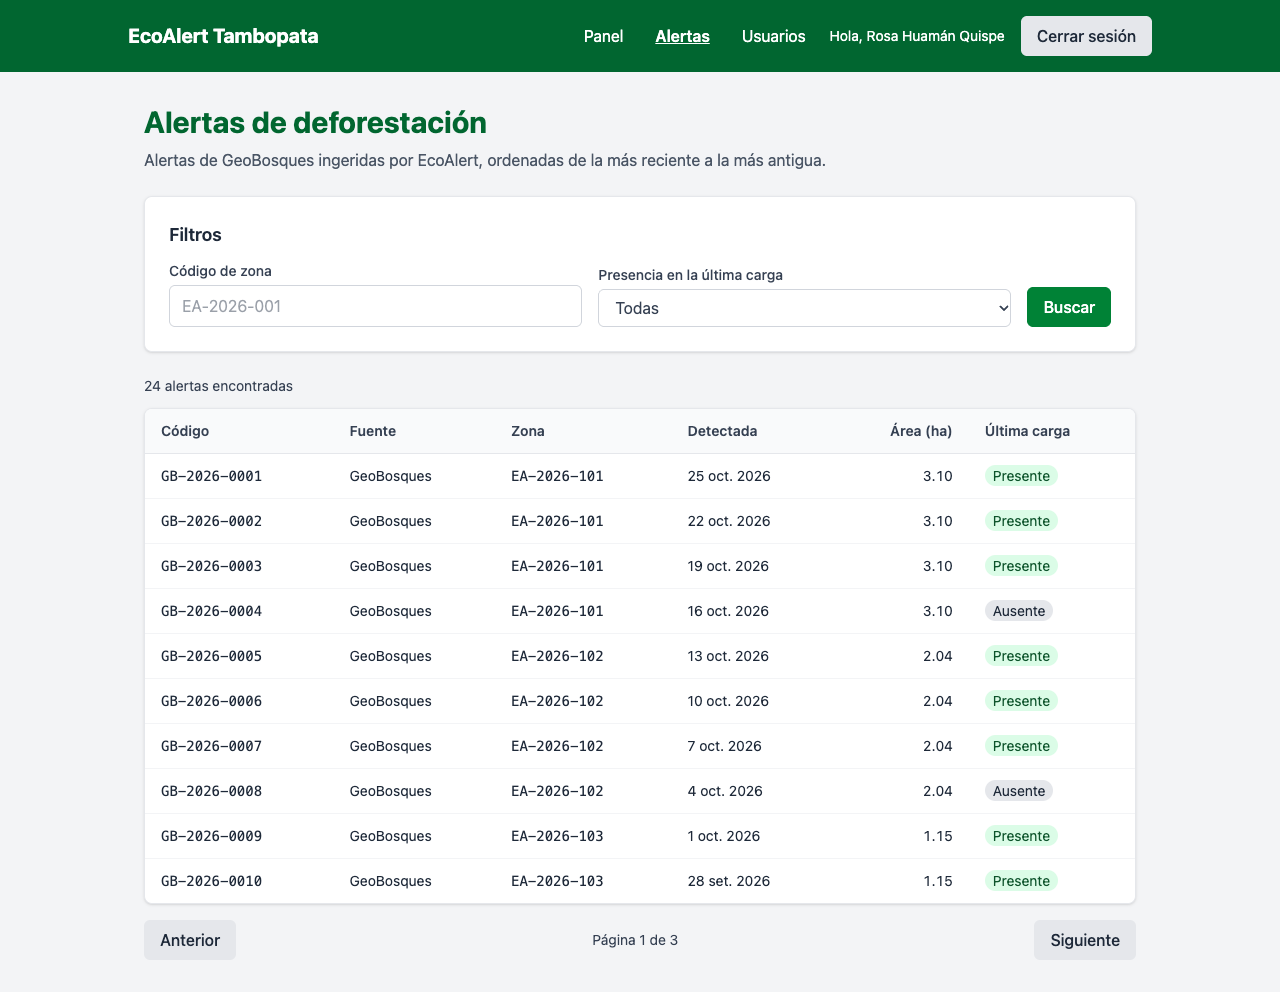
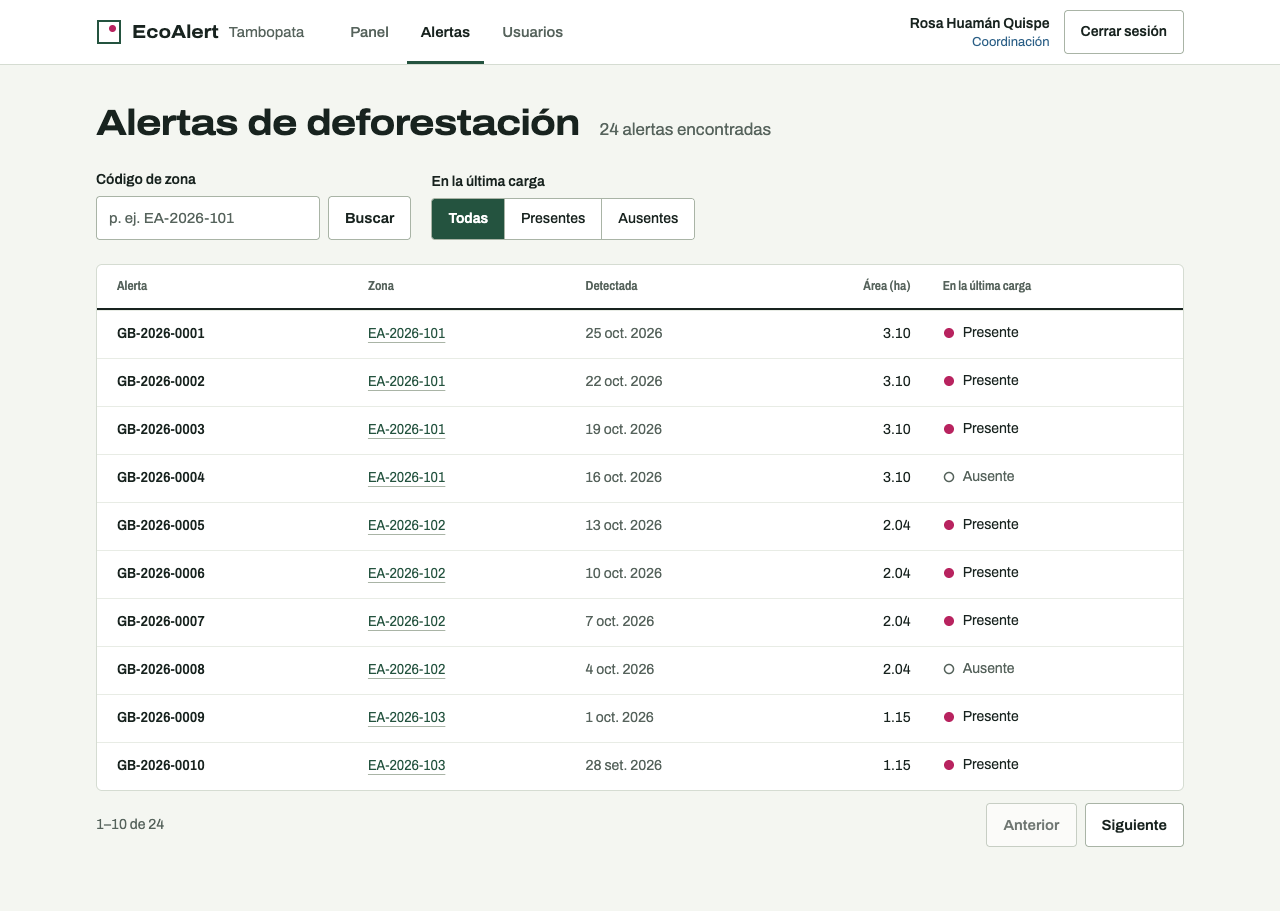
docs(S11_A1): refresh captures, evidence and demo script for the redesign
- Captures 01-07 regenerated by evidencias/flujo_e2e.cjs on a clean database.
- E2E selectors updated (Panel heading, Nueva cuenta, Desactivar cuenta de ...);
  13/13 steps pass locally with no unexpected console errors.
- Vitest evidence 45/45; README stack table lists the Archivo font.

diff --git a/S11_A1/guion_demo.md b/S11_A1/guion_demo.md
@@ -26,11 +26,11 @@ campo enmascarado y no leerla en voz alta).
 |---|---|---|---|---|
 | 0:00–0:30 | **Problema y contexto** | A | Pantalla de login de EcoAlert | "En la Reserva Nacional Tambopata, los analistas SIG reciben cada semana cientos de alertas oficiales de pérdida de bosque y tienen que decidir, cruzando varias herramientas, qué zona revisar primero. EcoAlert Tambopata es la aplicación web que les da ese punto de partida común: hoy, acceso seguro por roles, la administración de cuentas y la consulta de alertas por zona. La prioridad automática todavía no está construida, y lo diremos al final." |
 | 0:30–0:55 | Demo · protección de rutas y error de login | B | Escribir `/dashboard` en la barra → redirige al login. Ingresar `coordinacion@ecoalert.pe` con una contraseña incorrecta. | "Sin sesión, cualquier pantalla redirige al login. Con una contraseña incorrecta, el servidor responde 401 con un mensaje genérico que no revela si el correo existe." |
-| 0:55–1:20 | Demo · login y alertas | B | Login correcto → Panel → **Alertas**; filtrar zona `EA-2026-101`; mostrar la columna *Última carga* | "Ya con sesión, la coordinadora ve las 24 alertas de GeoBosques de seis zonas, guardadas en PostGIS. Puede filtrarlas por zona y ver cuáles no vinieron en la última carga." |
-| 1:20–2:10 | Demo · CRUD: crear y leer | C | **Usuarios** → formulario *Nueva cuenta*: `Luis Condori Mamani`, `luis.condori.<n>@ecoalert.pe`, Analista SIG, contraseña temporal. Primero una de 5 caracteres (error de validación), luego una válida. | "El recurso principal que administra Coordinación son las cuentas. Creo un analista para la brigada del río Malinowski. Si la contraseña temporal tiene menos de 12 caracteres, la interfaz lo rechaza antes de llamar al servidor. Con una válida, la cuenta aparece en la lista, marcada con 'contraseña temporal'." |
+| 0:55–1:20 | Demo · login y alertas | B | Login correcto → **Panel** (cifras y zonas por superficie) → pulsar `EA-2026-101` → sus alertas; mostrar la columna *En la última carga* | "Ya con sesión, la coordinadora ve las 24 alertas de GeoBosques de seis zonas, guardadas en PostGIS. Puede filtrarlas por zona y ver cuáles no vinieron en la última carga." |
+| 1:20–2:10 | Demo · CRUD: crear y leer | C | **Usuarios** → botón *Nueva cuenta* → formulario: `Luis Condori Mamani`, `luis.condori.<n>@ecoalert.pe`, Analista SIG, contraseña temporal. Primero una de 5 caracteres (error de validación), luego una válida. | "El recurso principal que administra Coordinación son las cuentas. Creo un analista para la brigada del río Malinowski. Si la contraseña temporal tiene menos de 12 caracteres, la interfaz lo rechaza antes de llamar al servidor. Con una válida, la cuenta aparece en la lista, marcada con 'contraseña temporal'." |
 | 2:10–2:35 | Demo · CRUD: actualizar | C | *Editar* la cuenta nueva → nombre `Luis Condori Mamani (Brigada Malinowski)` → *Guardar* | "Editar envía un PATCH solo con los campos que cambiaron." |
-| 2:35–3:00 | Demo · **caso de error manejado** | C | *Desactivar* la propia cuenta de Coordinación → *Confirmar* → aparece "No se puede desactivar la última cuenta de coordinación" | "Si intento desactivar la única cuenta de Coordinación, el servidor lo impide con un 409 y la interfaz muestra el motivo: el sistema se quedaría sin nadie que administre las cuentas." |
-| 3:00–3:30 | Demo · CRUD: baja lógica | C | *Desactivar* la cuenta de Luis → *Confirmar* → estado "Desactivada" | "No hay botón de eliminar: las cuentas se desactivan, porque el historial de cada zona debe conservar quién hizo cada revisión. Al desactivarla, sus sesiones abiertas se cierran al instante." |
+| 2:35–3:00 | Demo · **caso de error manejado** | C | *Desactivar* la propia cuenta de Coordinación → *Desactivar cuenta* → aparece "No se puede desactivar la última cuenta de coordinación" | "Si intento desactivar la única cuenta de Coordinación, el servidor lo impide con un 409 y la interfaz muestra el motivo: el sistema se quedaría sin nadie que administre las cuentas." |
+| 3:00–3:30 | Demo · CRUD: baja lógica | C | *Desactivar* la cuenta de Luis → *Desactivar cuenta* → estado "Desactivada" | "No hay botón de eliminar: las cuentas se desactivan, porque el historial de cada zona debe conservar quién hizo cada revisión. Al desactivarla, sus sesiones abiertas se cierran al instante." |
 | 3:30–4:00 | **Decisión técnica clave** | D | `backend/app/dependencies.py` (función `autenticar`) o el diagrama del README | "Nuestra decisión clave fue no usar un JWT puramente sin estado. Cada token tiene un identificador de sesión guardado en PostgreSQL, y en cada petición comprobamos que esa sesión siga abierta, que no lleve más de 30 minutos inactiva y que la cuenta siga activa. Por eso cerrar sesión o desactivar una cuenta invalida el token en el momento, que es lo que exigen los criterios RF-01-AC-6 y RF-02-AC-5." |
 | 4:00–4:20 | **Uso del agente de IA** | A | Tabla A.4 de `retrospectiva_proyecto.md` | "El agente fue más útil generando el contrato OpenAPI y más de doscientas pruebas automatizadas. Pero también escribió pruebas que pasaban sin verificar nada, y solo lo descubrimos rompiendo el código a propósito: revisar lo generado nos costó más que generarlo." |
 | 4:20–4:45 | **Qué haríamos diferente** | B | Matriz de trazabilidad, §2 Resumen | "La limitación real es que el núcleo del producto, agrupar alertas en zonas y calcular su prioridad, no está construido: pusimos primero la seguridad y la administración. Con más tiempo haríamos primero un flujo vertical simple de ingesta, zonas, prioridad y lista, aunque fuera rudimentario, y después lo reforzaríamos." |

diff --git a/README.md b/README.md
@@ -53,7 +53,7 @@ demostración (`backend/scripts/sembrar_demo.py`). El detalle por requerimiento 
 
 | | |
 |---|---|
-| ![Inicio de sesión](S11_A1/capturas/01-login.png) **Inicio de sesión** — toda ruta protegida sin sesión redirige aquí. | ![Panel de Coordinación](S11_A1/capturas/02-panel-coordinacion.png) **Panel** — datos de la sesión y accesos según el rol. |
+| ![Inicio de sesión](S11_A1/capturas/01-login.png) **Inicio de sesión** — toda ruta protegida sin sesión redirige aquí. | ![Panel de Coordinación](S11_A1/capturas/02-panel-coordinacion.png) **Panel** — cifras y zonas ordenadas por superficie alertada, calculadas con las alertas cargadas. |
 | ![Alertas](S11_A1/capturas/03-alertas.png) **Alertas** — 24 alertas de GeoBosques desde PostGIS, con filtros y paginación. | ![Usuarios](S11_A1/capturas/04-usuarios-creado.png) **Gestión de usuarios** — alta de una cuenta de Analista SIG. |
 | ![Error 409](S11_A1/capturas/05-error-ultima-coordinacion.png) **Error manejado** — el servidor impide desactivar la última cuenta de Coordinación (409). | ![Cambio de contraseña](S11_A1/capturas/06-cambiar-password.png) **Primer ingreso** — la cuenta nueva debe reemplazar su contraseña temporal. |
 
@@ -137,7 +137,8 @@ Versiones instaladas y verificadas el 24/11/2026 (`requirements*.txt` y `package
 | Frontend | React / React DOM | 19.3.1 | Interfaz como SPA de componentes |
 | | React Router | 7.18.4 | Rutas públicas y protegidas |
 | | Vite | 6.4.5 | Servidor de desarrollo, proxy de `/api` y build de producción |
-| | Tailwind CSS | 4.3.4 | Estilos utilitarios y diseño responsivo |
+| | Tailwind CSS | 4.3.4 | Estilos utilitarios y diseño responsivo; los colores del sistema visual son tokens `@theme` en `frontend/src/index.css` |
+| | Archivo (`@fontsource-variable/archivo`) | 5.3.0 | Tipografía servida desde el propio build, con eje de ancho (expandida en títulos, condensada en tablas) |
 | Pruebas | pytest + httpx | 8.4.2 + 0.28.1 | Pruebas de backend contra PostgreSQL real |
 | | Vitest + Testing Library + jsdom | 5.0.5 + 16.3.3 + 30.1.3 | Pruebas de servicios, rutas y páginas del frontend |
 | | Playwright | 1.60.0 | Prueba E2E del flujo de la demo (fuera del `package.json`) |
@@ -215,7 +216,7 @@ documentación interactiva queda en <http://127.0.0.1:8000/docs>.
 | Suite | Comando | Resultado verificado (24/11/2026) | Evidencia |
 |---|---|---|---|
 | Backend: CRUD, lecturas, contrato, integridad SQL e integración (`backend/tests/`) y seguridad JWT (`S05_S06_A2/pruebas/`) | `cd backend && .venv/bin/python -m pytest` | **234 de 234** (110 + 124) | [`pytest_backend.txt`](S11_A1/evidencias/pytest_backend.txt) |
-| Frontend: servicios, rutas protegidas y páginas | `npm --prefix frontend test` | **39 de 39** | [`vitest_frontend.txt`](S11_A1/evidencias/vitest_frontend.txt) |
+| Frontend: servicios, rutas protegidas y páginas | `npm --prefix frontend test` | **45 de 45** | [`vitest_frontend.txt`](S11_A1/evidencias/vitest_frontend.txt) |
 | E2E del flujo de la demo (13 pasos, navegador real) | ver cabecera de [`flujo_e2e.cjs`](S11_A1/evidencias/flujo_e2e.cjs) | Aprobado en local y en el Codespace, sin errores inesperados de consola | [`e2e_local.txt`](S11_A1/evidencias/e2e_local.txt) · [`e2e_codespace.txt`](S11_A1/evidencias/e2e_codespace.txt) |
 | Colección Postman del backend | ver [`backend/README.md`](backend/README.md#colección-postman-del-backend-final) | 58 aserciones, 0 fallos (25/10/2026) | `S05_S06_A2/evidencias/newman_backend_final.txt` |
 

diff --git a/S11_A1/matriz_trazabilidad.md b/S11_A1/matriz_trazabilidad.md
@@ -7,7 +7,7 @@
 | Requerimientos | [`S03_A1/SRS_equipo.md`](../S03_A1/SRS_equipo.md), línea base v1.0: 39 RF (17 Must, 13 Should, 9 Could) |
 | Historias de usuario | [`S03_A1/backlog_completo.md`](../S03_A1/backlog_completo.md): 15 HU en 5 épicas |
 | Endpoints | [`backend/docs/openapi_integrado.yaml`](../backend/docs/openapi_integrado.yaml) v1.3.0: 39 operaciones, 20 implementadas |
-| Pruebas | `backend/tests/` y `S05_S06_A2/pruebas/` (pytest, **234/234**), `frontend/src/**/*.test.*` (Vitest, **39/39**), E2E [`evidencias/flujo_e2e.cjs`](evidencias/flujo_e2e.cjs) (Playwright) |
+| Pruebas | `backend/tests/` y `S05_S06_A2/pruebas/` (pytest, **234/234**), `frontend/src/**/*.test.*` (Vitest, **45/45**), E2E [`evidencias/flujo_e2e.cjs`](evidencias/flujo_e2e.cjs) (Playwright) |
 | Corte | Rama `feat/S11_A1-documentacion-final`, 24/11/2026. Cada resultado se reprodujo en esa fecha; las salidas están en [`evidencias/`](evidencias/). |
 
 ## 1. Cómo se clasificó cada requerimiento
